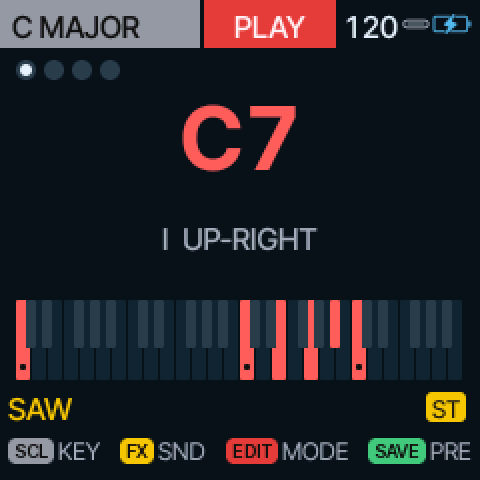
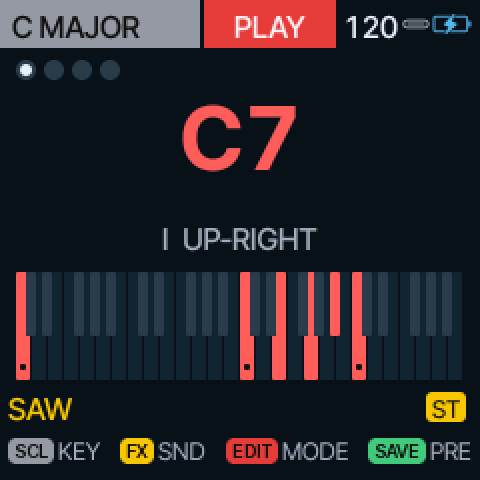
The key strip at rest is a legend, and taller: degree numbers, I L H, joystick dots
The white keys carry their degree number, INVERT LOCK HOLD their letter,
the direction keys a dot where they point. Keys 54 tall (the body gives up
14 px it did not use); the piano the same. README: the idle screen.

diff --git a/firmware/src/hui.c b/firmware/src/hui.c
@@ -1251,27 +1251,27 @@ static void hui_draw_piano(uint32_t deg)
         start += (12u - start % 12u) % 12u;
     }
     for (i = 0; i < 28u; i++)
-        cv_rrect(8 + (int32_t)i * 8, 2, 7, 40, 1, T_SURF, T_BG);
+        cv_rrect(8 + (int32_t)i * 8, 2, 7, 54, 1, T_SURF, T_BG);
     for (i = start; i < start + 48u && i < 128u; i++)
         if (on[i] && !IS_BLACK[i % 12u]) {
             int32_t x = 8 + (int32_t)((i - start) / 12u * 7u + WHITE_OF[i % 12u]) * 8;
-            cv_rrect(x, 2, 7, 40, 1, col, T_BG);
+            cv_rrect(x, 2, 7, 54, 1, col, T_BG);
             if (i % 12u == root)
-                cv_rrect(x + 2, 34, 3, 3, 1, HC_INK, col);
+                cv_rrect(x + 2, 48, 3, 3, 1, HC_INK, col);
         }
     for (i = start; i < start + 48u && i < 128u; i++)
         if (IS_BLACK[i % 12u]) {
             int32_t x = 8 + (int32_t)((i - start) / 12u * 7u + WHITE_OF[i % 12u]) * 8 + 5;
-            cv_rrect(x, 2, 5, 24, 1, on[i] ? col : T_RAISE, T_BG);
+            cv_rrect(x, 2, 5, 32, 1, on[i] ? col : T_RAISE, T_BG);
             if (on[i] && i % 12u == root)
-                cv_rrect(x + 1, 18, 3, 3, 1, HC_INK, col);
+                cv_rrect(x + 1, 24, 3, 3, 1, HC_INK, col);
         }
     for (i = 0; i < n; i++) {
         uint32_t x = hc.cur.note[i];
         if (x < start)
-            cv_rrect(2, 20, 4, 4, 2, col, T_BG);
+            cv_rrect(2, 26, 4, 4, 2, col, T_BG);
         else if (x >= start + 48u)
-            cv_rrect(234, 20, 4, 4, 2, col, T_BG);
+            cv_rrect(234, 26, 4, 4, 2, col, T_BG);
     }
 }
 
@@ -1326,7 +1326,7 @@ static void hui_draw_home(void)
         return;
     hui.sig[1] = sig;
     /* the chord */
-    cv_begin(240, 124, T_BG);
+    cv_begin(240, 110, T_BG);
     for (i = 0; i < HCL_LAYERS; i++) {                   /* the looper's layers: OFF dim, ARMED yellow, REC red, PLAY green */
         uint32_t st = hcl.l[i].state;
         uint16_t c = st == HLS_PLAY ? HC_GREEN : st == HLS_REC ? HC_RED : st == HLS_ARMED ? HC_YELLOW : T_RAISE;
@@ -1368,7 +1368,7 @@ static void hui_draw_home(void)
     }
     cv_blit(0, HU_HEAD);
     /* the keyboard: 16 white keys, 11 black, the held ones in their degree's colour, the directions dim */
-    cv_begin(240, 66, T_BG);
+    cv_begin(240, 80, T_BG);
     if (held && hc.cur.n) {                              /* a chord sounds: its notes on a piano */
         hui_draw_piano(deg);
     } else {
@@ -1379,8 +1379,10 @@ static void hui_draw_home(void)
                 int32_t o;
                 uint32_t d = hc_degree_of_key(TSEL, i, &o) % 7u;
                 int32_t x = x0 + (int32_t)p * (ww + 1);
-                cv_rrect(x, 2, ww, 40, 2, on ? HC_DEG_COL[d] : T_SURF, T_BG);
-                cv_rrect(x + 3, 36, ww - 6, 3, 1, HC_DEG_COL[d], on ? HC_DEG_COL[d] : T_SURF);   /* the degree's colour */
+                char dn[2] = {(char)('1' + d), 0};
+                cv_rrect(x, 2, ww, 54, 2, on ? HC_DEG_COL[d] : T_SURF, T_BG);
+                cv_rrect(x + 3, 50, ww - 6, 3, 1, HC_DEG_COL[d], on ? HC_DEG_COL[d] : T_SURF);   /* the degree's colour */
+                cv_text_c(x + ww / 2, 33, &AF_S, dn, on ? HC_INK : T_MID, on ? HC_DEG_COL[d] : T_SURF);   /* its number */
             }
         }
         for (i = 0; i < 27u; i++) {
@@ -1389,13 +1391,21 @@ static void hui_draw_home(void)
                 static const uint8_t AFTER[HC_NBLACK] = {0, 1, 2, 4, 5, 7, 8, 9, 11, 12, 14};   /* the white key it follows */
                 int32_t x = x0 + (int32_t)AFTER[p] * (ww + 1) + ww - 4;
                 uint16_t col = on ? (p < 3u ? HC_GREEN : HC_YELLOW) : T_RAISE;
-                cv_rrect(x, 2, 9, 24, 2, col, T_BG);
+                cv_rrect(x, 2, 9, 32, 2, col, T_BG);
+                if (p < 3u) {                            /* INVERT LOCK HOLD */
+                    char fl[2] = {"ILH"[p], 0};
+                    cv_text_c(x + 4, 10, &AF_S, fl, on ? HC_INK : T_MID, col);
+                } else {                                 /* a joystick direction: the dot where it points */
+                    static const int8_t DX[8] = {0, 1, 1, 1, 0, -1, -1, -1}, DY[8] = {-1, -1, 0, 1, 1, 1, 0, -1};
+                    uint32_t dir = HC_BLACK_FN[p] - HD_UP;
+                    cv_rrect(x + 3 + DX[dir % 8u] * 2, 16 + DY[dir % 8u] * 6, 3, 3, 1, on ? HC_INK : T_MID, col);
+                }
             }
         }
     }
     {
         /* the sound and its effects */
-        cv_text_on(4, 47, &AF_M, HC_SOUNDS[c->sound % HC_NSOUNDS].name, HC_YELLOW, T_BG);
+        cv_text_on(4, 61, &AF_M, HC_SOUNDS[c->sound % HC_NSOUNDS].name, HC_YELLOW, T_BG);
         {
             static const char *const CHIP[12] = {"REV", "DLY", "CHO", "FLG", "TRM", "LFO", "GLD", "DRV", "TAPE", "FLT", "HP", "ST"};
             int32_t x = 236;
@@ -1403,12 +1413,12 @@ static void hui_draw_home(void)
                 if ((fxm >> (i - 1u)) & 1u) {
                     int32_t w = text_w(&AF_S, CHIP[i - 1u]) + 6;
                     x -= w + 3;
-                    cv_rrect(x, 48, w, 15, 3, HC_YELLOW, T_BG);
-                    cv_text_c(x + w / 2, 49, &AF_S, CHIP[i - 1u], HC_INK, HC_YELLOW);
+                    cv_rrect(x, 62, w, 15, 3, HC_YELLOW, T_BG);
+                    cv_text_c(x + w / 2, 63, &AF_S, CHIP[i - 1u], HC_INK, HC_YELLOW);
                 }
         }
     }
-    cv_blit(0, HU_HEAD + 124);
+    cv_blit(0, HU_HEAD + 110);
 }
 
 /* a menu: its rows, the selected one marked in the menu's colour */

diff --git a/README.md b/README.md
@@ -5,7 +5,7 @@ Built on [Felucca](https://github.com/hugelton/Felucca). Clean-room: nothing fro
 
 **White keys play chords.** Each white key is a scale degree in the current key and scale, so every
 chord fits: C4 is I, D4 is ii, and so on, across two octaves. The screen names the chord and shows
-its notes on a piano.
+its notes on a piano; at rest it shows what every key does.
 
 **Black keys change them.** The eight black keys of the middle octaves are the HiChord's joystick
 directions (7ths, 9ths, sus, dim, aug, borrowed chords, in four tables); F#3 cycles the inversion
@@ -33,7 +33,7 @@ settings come back after power-off. HOME held gives you Felucca's full synth und
 | ![effects](screenshots/home_fx.png) | ![sound list](screenshots/pick_sound.png) | ![envelopes](screenshots/pick_env.png) |
 | ![key menu](screenshots/menu_key.png) | ![sound menu](screenshots/menu_sound_amount.png) | ![mode menu](screenshots/menu_mode.png) |
 | ![looper](screenshots/menu_looper.png) | ![sequencer](screenshots/mode_sequencer.png) | ![drum loop recording](screenshots/mode_drumloop_rec.png) |
-| ![drums](screenshots/mode_drum.png) | ![mixer](screenshots/mode_mixer.png) | ![chord hiro](screenshots/mode_hiro.png) |
+| ![drums](screenshots/mode_drum.png) | ![at rest: the key legend](screenshots/home_idle.png) | ![chord hiro](screenshots/mode_hiro.png) |
 
 Status: running on an FM-1 (installed over USB-MIDI with `tools/fm1_install.py`, 28 % CPU at idle)
 and tested on the host simulator. It also runs in the

diff --git a/spec/docs/11-hardware-findings.md b/spec/docs/11-hardware-findings.md
@@ -126,6 +126,12 @@ window starts at the C at or below the lowest note, moved up when the top note w
 beyond it is a dot at that edge) in the degree's colour, the root notes dotted. At rest the FM-1 key
 layout with its degree colours is back. `hui_draw_piano`; the README's home shot shows C7.
 
+## The keyboard at rest is a legend
+
+The key strip shown when nothing sounds now says what each key does: the degree's number on every
+white key (over its colour bar), I, L and H on the INVERT, LOCK and HOLD keys, and a dot placed in
+the joystick direction on each of the eight direction keys.
+
 ## Numbers
 
 | | |
